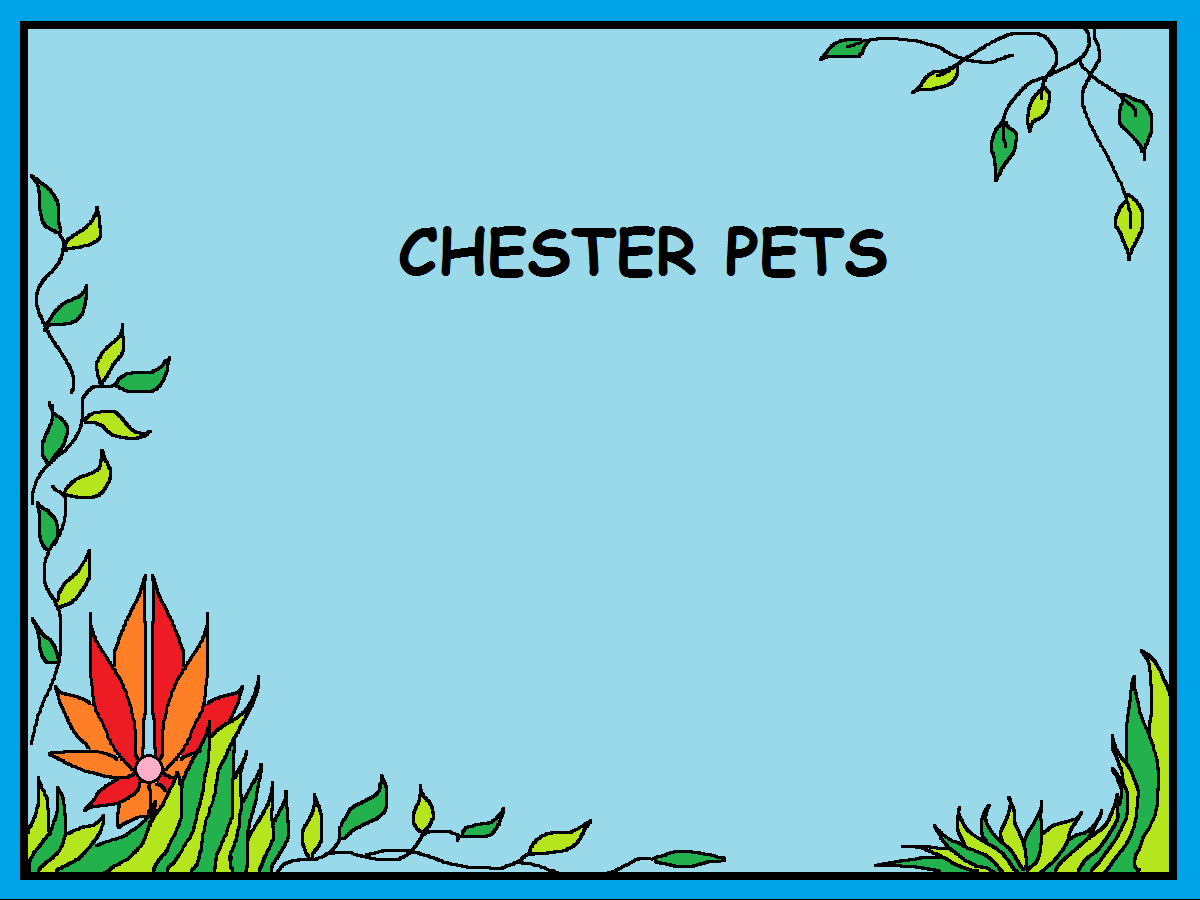
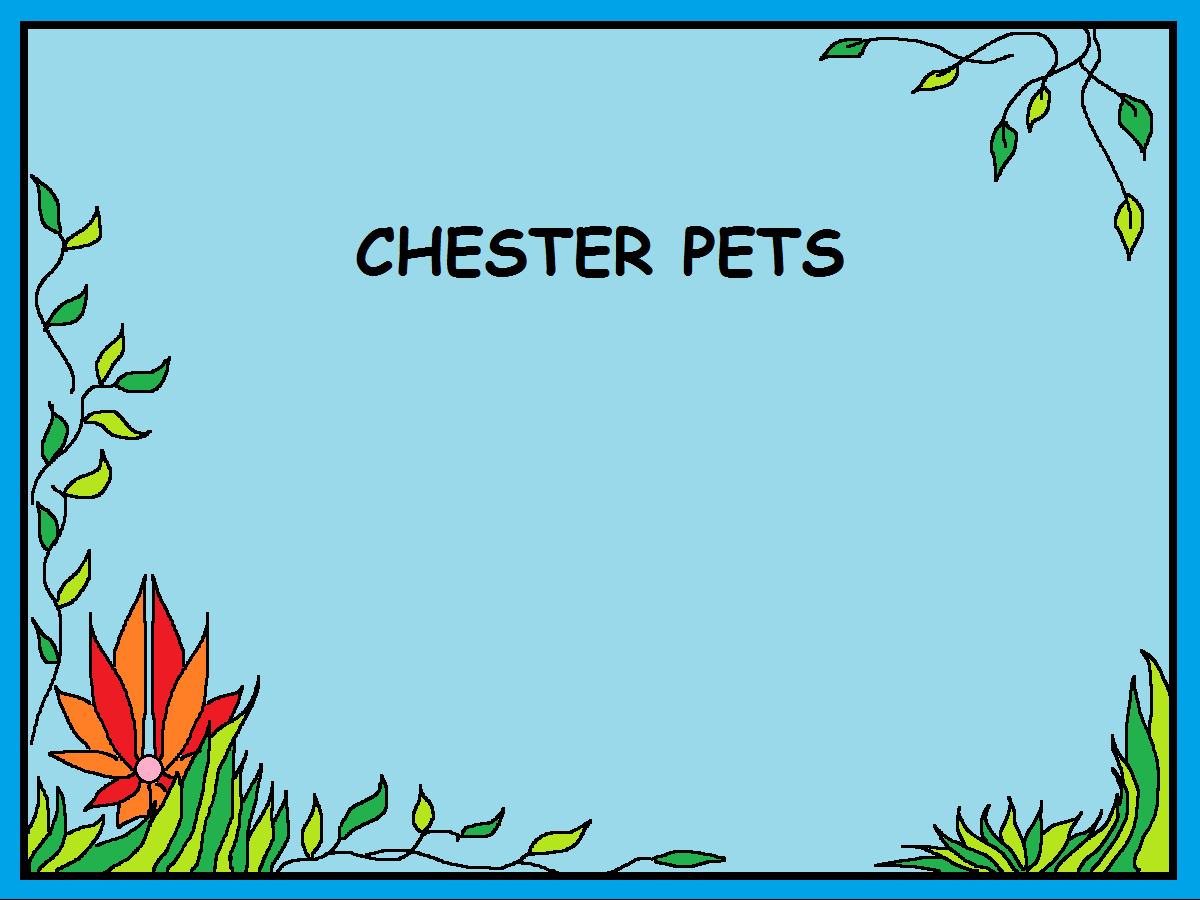
fixed pet selection background image to center the title and recolored and repositioned the instructions at the bottom

Changed region(s): [[0.2775, 0.2489, 0.74, 0.3111]]

diff --git a/Example.activity/game/PetSelection.py b/Example.activity/game/PetSelection.py
@@ -35,7 +35,7 @@ HEIGHT = 900
 TITLE_FONT_SIZE = 72
 OTHER_FONT_SIZE = 48
 BG_COLOR = (100, 100, 100)
-FG_COLOR = (255, 255, 255)
+FG_COLOR = (0, 0, 0)
 MY_COLOR = (255, 0, 0)
 
 PET_TYPES = ["cat", "dog", "bird", "dragon"]
@@ -163,13 +163,12 @@ class PetSelection(Scene):
     def __init__(self):
         line_space = 50
         instructions_x_posn = 600
-        instructions_y_posn = 700
+        instructions_y_posn = 570
         
         Scene.__init__(self)
         self.camera = self.parent_camera.make_child((WIDTH, HEIGHT))
         self.group = spyral.Group(self.camera)
 
-        title_font = pygame.font.SysFont(None, TITLE_FONT_SIZE)
         other_font = pygame.font.SysFont(None, OTHER_FONT_SIZE)
 
         self.pet = Pet(self)
